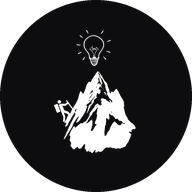
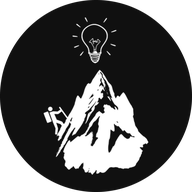
Знакът да се вижда и на шестнайсет пиксела
В търсачката на Windows Climby изглеждаше като тъмно квадратче с нещо в
средата. Причината се мери: на 16 пиксела рисунката заемаше 25% от кадъра —
четири бели пиксела в черен кръг. Оттам и двете оплаквания наведнъж, защото
са едно: знакът беше твърде малък, за да се разпознае, а останалото беше фон.

Сега рисунката пълни кадъра, а .ico носи различни кадри за различните
размери — за това служи форматът. На 16, 24 и 32 пиксела стои само планината:
крушката там е три сиви точки, а три сиви точки не значат нищо. От 48 нагоре
се вижда целият знак, както си е.

Знакът е същият — само изваден от собствения си фон по яркост, за да няма
сив правоъгълник около него, и увеличен.

Същото и в приложението: отстъпът около кръга смаляваше висок и тесен знак
двойно (5px от 46px кръг оставяха 24px широчина). Сега е 2px.

Иконите се раздават кеш-първо, затова CACHE е v14 — инак старата картинка
остава под същото име.

Claude-Session: https://claude.ai/code/session_01FSZkmxbFy1BuA3JUjrRv9K

Changed region(s): [[0.2188, 0.0938, 0.7812, 0.9062]]

diff --git a/Documents/project/frontend/sw.js b/Documents/project/frontend/sw.js
@@ -17,7 +17,7 @@
 // ТРЯБВА да се вдигне — инак хората продължават да виждат старата, а на диска
 // стои новата. Точно това се случи при смяната на знака на ClimbAI: файлът беше
 // нов, екранът показваше стария и нищо не подсказваше защо.
-const CACHE = 'climby-shell-v13';
+const CACHE = 'climby-shell-v14';
 
 // Файлове, чието съдържание не се променя под същото име. Само за тях кешът изпреварва
 // мрежата; всичко останало от нашия произход тръгва по мрежата.

diff --git a/Documents/project/frontend/style.css b/Documents/project/frontend/style.css
@@ -240,7 +240,7 @@ body {
   align-items: center;
   justify-content: center;
   background: #0d0d10;
-  padding: 5px;
+  padding: 2px;
 }
 .sidebar-logo img { width: 100%; height: 100%; object-fit: contain; filter: brightness(0) invert(1); }
 .brand { display: flex; flex-direction: column; line-height: 1.2; min-width: 0; }
@@ -522,7 +522,7 @@ body {
 }
 .entry-gate-card { margin: 32px 0; animation: climby-rise 0.3s ease both; }
 .entry-gate-brand { display: flex; align-items: center; gap: 12px; margin-bottom: 4px; }
-.entry-gate-brand .sidebar-logo { width: 60px; height: 60px; padding: 7px; }
+.entry-gate-brand .sidebar-logo { width: 60px; height: 60px; padding: 3px; }
 
 .remember-row {
   display: flex;
